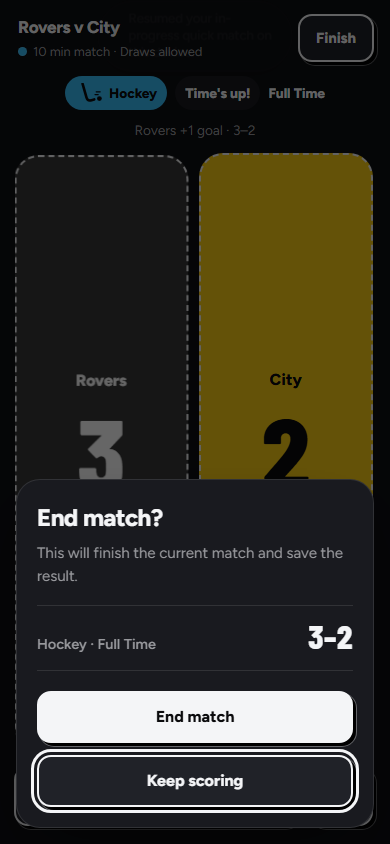
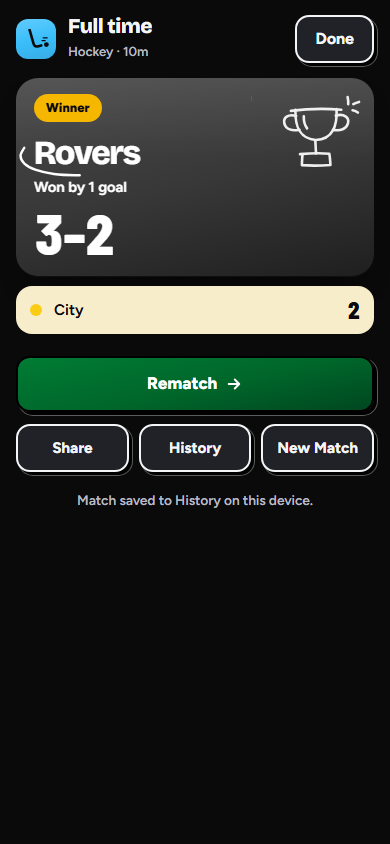
docs: verify hockey saved results and final demo evidence

diff --git a/docs/plans/2026-10-23-board-hockey/demo.md b/docs/plans/2026-10-23-board-hockey/demo.md
@@ -53,7 +53,7 @@ Unchanged comparisons: [kabaddi before](https://github.com/harshanandak/scoreeas
 - TDD: the original 15 hockey tests ran against the unmodified registry: 11 failed and 4 passed. After opt-in all passed; one additional registry-completeness test asserts all four goals sports opt in.
 - Hockey coverage: 16 cases for registry completeness, whole-key +1 for both teams, exact hockey mark/colours/countdown, correction + Undo after side swap, saved draft/Undo, time-up win and draw/refresh, Finish cancellation, free/points modes, points completion, setup picks, repeated bump without focus loss, and three contrast pairs.
 - Classic fallback guarantee now uses an explicit registry opt-out, restored in finally. Classic rendering is retained. Existing hardening tests already exercise football/basketball team boards and needed no edits.
-- Full suite: 154 files passed, 1,974 passed and 7 expected failures before the final extra registry assertion. Final focused and normal pre-push results are recorded below after running.
+- Full suite: 154 files passed, 1,974 passed and 7 expected failures before the final extra registry assertion. Final focused run: 7 files and 218 tests passed, including the extra registry assertion and palette tests.
 - Lint: 0 errors, 29 warnings. Type-check: exit 0. Palette baseline unchanged.
 - No spectator files, tournament scorer, shared board/CSS, scoring rules, persistence or outbox code changed.
 
@@ -66,4 +66,5 @@ Unchanged comparisons: [kabaddi before](https://github.com/harshanandak/scoreeas
 - SA-10 tournament clock restore: 134b5fe0-df42-4fe2-af45-2e1fb5924145.
 - SA-08 delayed auto-finish/Undo: 8b0316bd-bcda-40b9-877a-f4188f5dd5dc.
 
-No additional visual bug found in the captured hockey board. Known restore notice overlap remains the linked follow-up.
+Three result captures initially raced the asynchronous Finish transition; all three were recaptured and visually checked to show the saved result. No additional visual bug found in the captured hockey board. Known restore notice overlap remains the linked follow-up.
+
